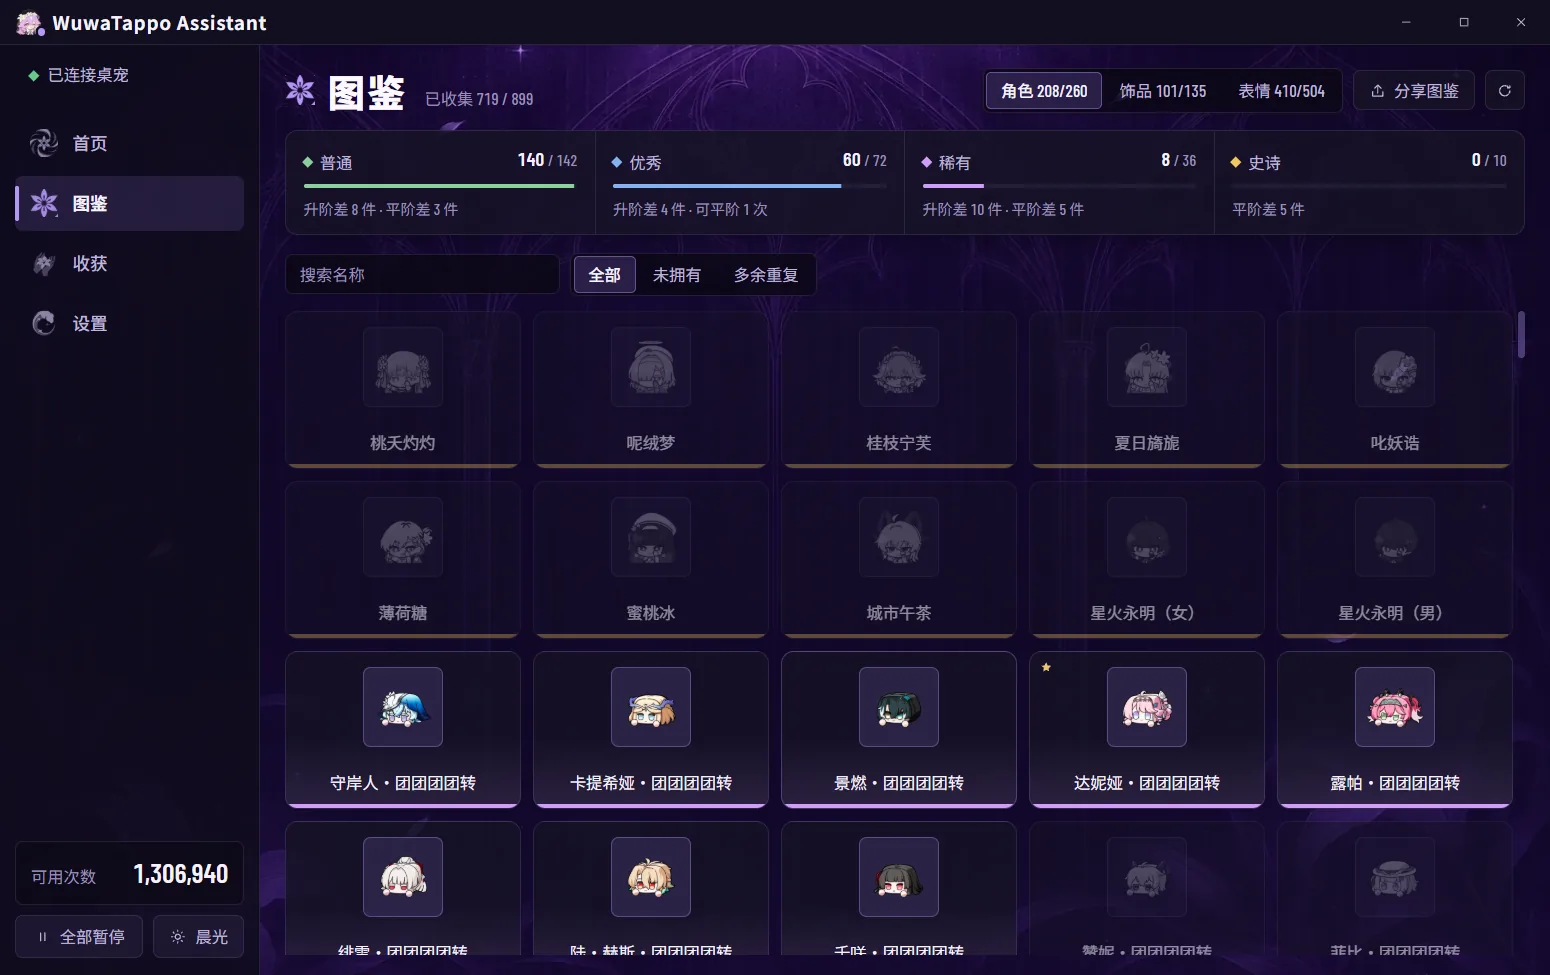
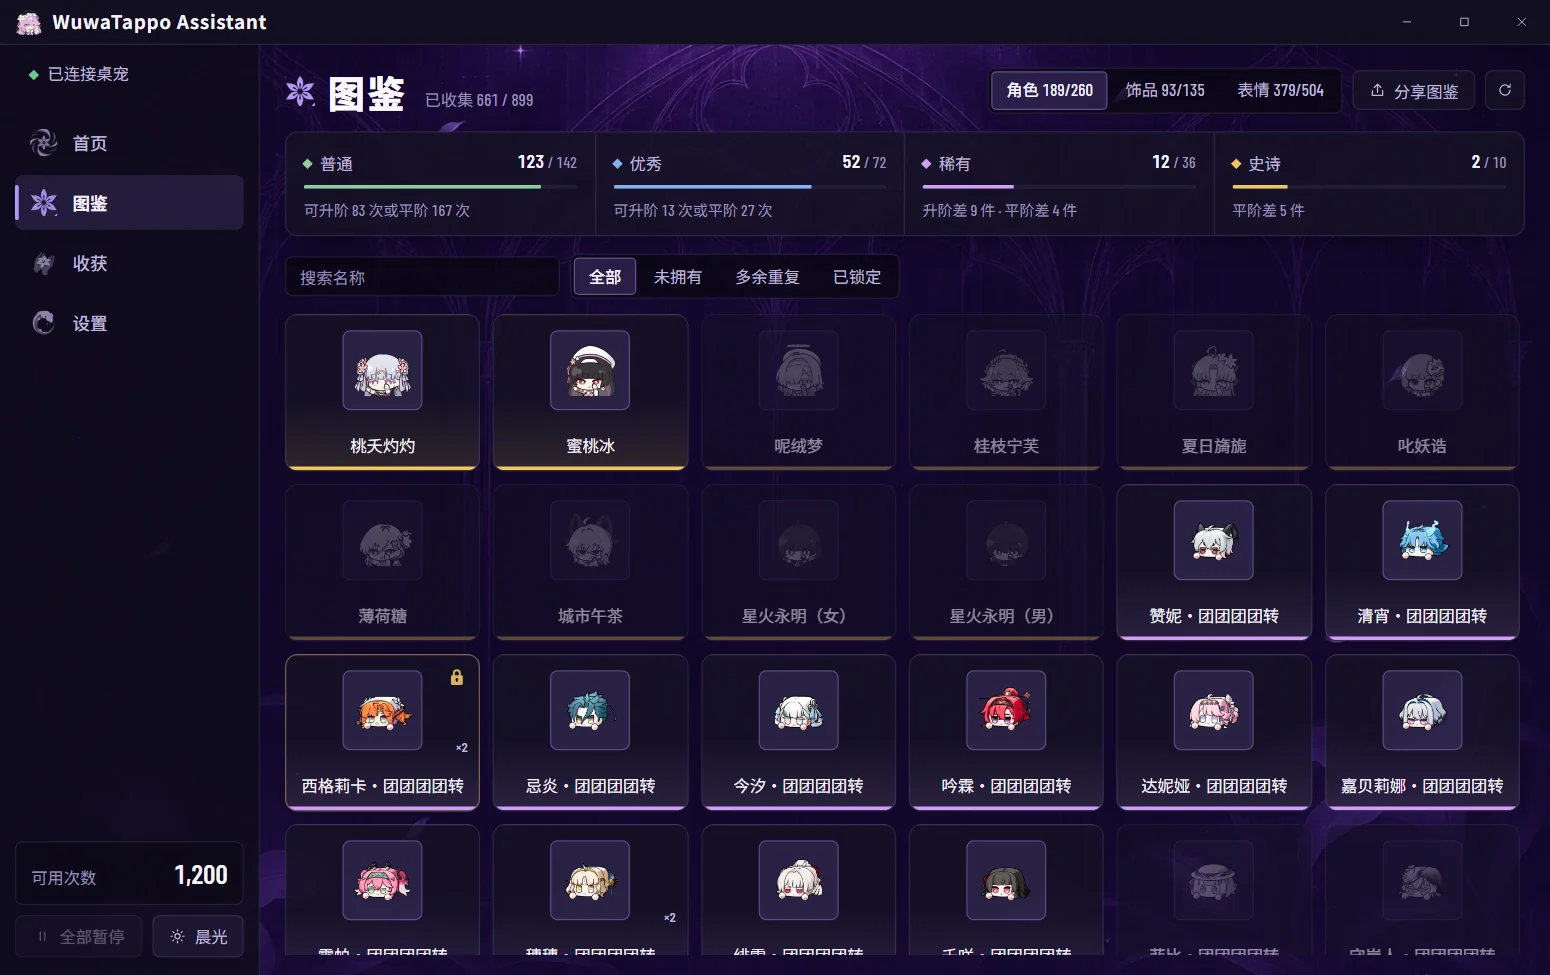
README: atlas lock replaces the favourite / in-use rule
Synthesis keeps one of each (the pet's own rule) and never touches items locked in the atlas; favourites are no longer special. New atlas screenshot from the sample data with one item locked.

diff --git a/README.md b/README.md
@@ -24,7 +24,7 @@
 |---|---|
 | 宝箱冷却好了没人点，白白等过去 | 冷却一到、次数够 1000，**自动领取宝箱**，并核对领到了什么 |
 | 次数不够开箱，临时补很费手 | 低于你设的数就**自动维持**补回来，或一键快速补到指定次数 |
-| 重复道具越堆越多，一个个合成太烦 | **自动升阶合成 / 平阶合成**，只动多出来的，收藏和在用的不动 |
+| 重复道具越堆越多，一个个合成太烦 | **自动升阶合成 / 平阶合成**，每种留 1 件，想留的在图鉴里点一下锁 |
 | 官方发了兑换码，忙忘了或没看到 | **自动兑换**：官方在 TapTap 发了新码后，通常几小时内自动兑掉，不用手动输入 |
 | 不知道集了多少、自己手气怎么样 | 图鉴进度、开箱统计、出货和官方概率对比、全部获取记录 |
 | 开出好东西或集齐一套想晒一下 | 一键生成图鉴分享图、出货分享图，自动复制，直接粘贴就能发 |
@@ -60,7 +60,7 @@
   - **自动维持在**：打开后，次数低于这个数就自动补回来。改数字停手一会儿就生效，不用再开关一次。平时像人手点一样不紧不慢（约每秒 5 次、间隔有快有慢）；快到下一个宝箱冷却前若赶不上，会自动提速，最高每秒 125 次。
 - **自动领取宝箱**：左右两个宝箱各一张小卡，显示倒计时和状态（冷却中 / 可开启 / 次数不足 / 领取中）。次数不够时卡片上会给出「补够」按钮，点一下刚好补到能开。领完后会核对拿到什么；万一中途断开没确认结果，为了不重复领会先停下等你点「核对」（核对只查看状态，不会再领一次）。
 - **自动合成**：「升阶合成」（10 个重复换 1 个高一级）和「平阶合成」（5 个换 1 个同级没收集到的，某一档图鉴集齐后就不再平阶）各有独立开关，两个都开时可选「升阶优先」或「补全图鉴」。
-  - 只用多出来的重复件，每种至少留 1 件；收藏的和正在使用的不会被拿去合成；史诗没有更高一级，只用于平阶；每次只合成一次，确认成功再合下一次。
+  - 只用多出来的重复件，每种至少留 1 件（桌宠官方合成本来就这样）；想整件留着的道具，在图鉴里点卡片右上角的锁，锁住的不参与合成；没锁的重复件不管是否收藏都会合；史诗没有更高一级，只用于平阶；每次只合成一次，确认成功再合下一次。
   - 打开开关时会弹一句说明并附上「关掉」按钮，误开了马上能停住之后的合成（已经合掉的道具退不回来）。想把某些分类整批留着不动，点「合成范围 ›」就能到设置里细调。
 - **兑换码**：输入框粘贴兑换码点「兑换」，从群里复制时顺手带上的引号、书名号、空格都会自动清掉。「自动兑换」默认开着，详见下面的说明。
 - **最近获取**：刚开到或合到的道具实时列在右侧，名字按品质上色，标明来自哪个宝箱或哪种合成，新到的一行会轻轻浮上来。点「全部记录 ›」直达收获页。
@@ -72,7 +72,8 @@
 
 - 顶部切换「角色 / 饰品 / 表情」，每类直接显示已收集和总数。
 - 四块品质铭牌（普通 / 优秀 / 稀有 / 史诗）写明每档集了多少、还差几件、手头材料现在够升阶或平阶几次，点一块就只看这一档。
-- 支持搜索名称和筛选「全部 / 未拥有 / 多余重复」。每个道具带高清缩略图，未拥有的会变淡但保留品质色；带 ★ 的表示已收藏或正在用，不会被拿去合成。
+- 支持搜索名称和筛选「全部 / 未拥有 / 多余重复 / 已锁定」。每个道具带高清缩略图，未拥有的会变淡但保留品质色。
+- 鼠标移到道具卡上，右上角会出现一把锁，点一下锁住：变成金色的锁、卡片描一圈金边，自动合成不会再用它；再点一下解锁。
 - 点「**分享图鉴**」，把当前分类已收集的道具排成一张图，署上桌宠里的昵称和 UID，存到「下载」文件夹（可在设置里改位置）并自动复制到剪贴板，去 QQ、微信、B 站动态直接粘贴就能发。
 
 ### 收获：开了多少箱、手气如何，全都有账
@@ -146,7 +147,7 @@
 需要。助手是在桌宠运行的时候替你照看；平时把助手窗口关掉，它会在右下角托盘里默默干活，也可以在「设置」里打开「开机后自动运行」。
 
 **自动合成会不会把我的重复道具全合掉？**
-不会。只用多出来的重复件，每种至少留 1 件；收藏的和正在使用的绝对不动。你还可以在「设置 → 自动合成范围」里，按分类和品质把不想动的整批留下来。
+不会。只用多出来的重复件，每种至少留 1 件。想整件留着的道具，在图鉴里点卡片右上角的锁，锁住的一件也不合；没锁的重复件不管是否收藏都会合，和桌宠自己的合成一样。你还可以在「设置 → 自动合成范围」里，按分类和品质把不想动的整批留下来。从 1.0.2 或更早版本更新时，你原来收藏的道具会在第一次合成前自动帮你锁上。
 
 **桌宠更新后助手用不了怎么办？**
 如果桌宠改版导致暂时连不上，助手会直接提示你；这段时间先回桌宠里手动操作即可。等助手适配发出新版后，在「设置」里点「检查更新」就能看到。
